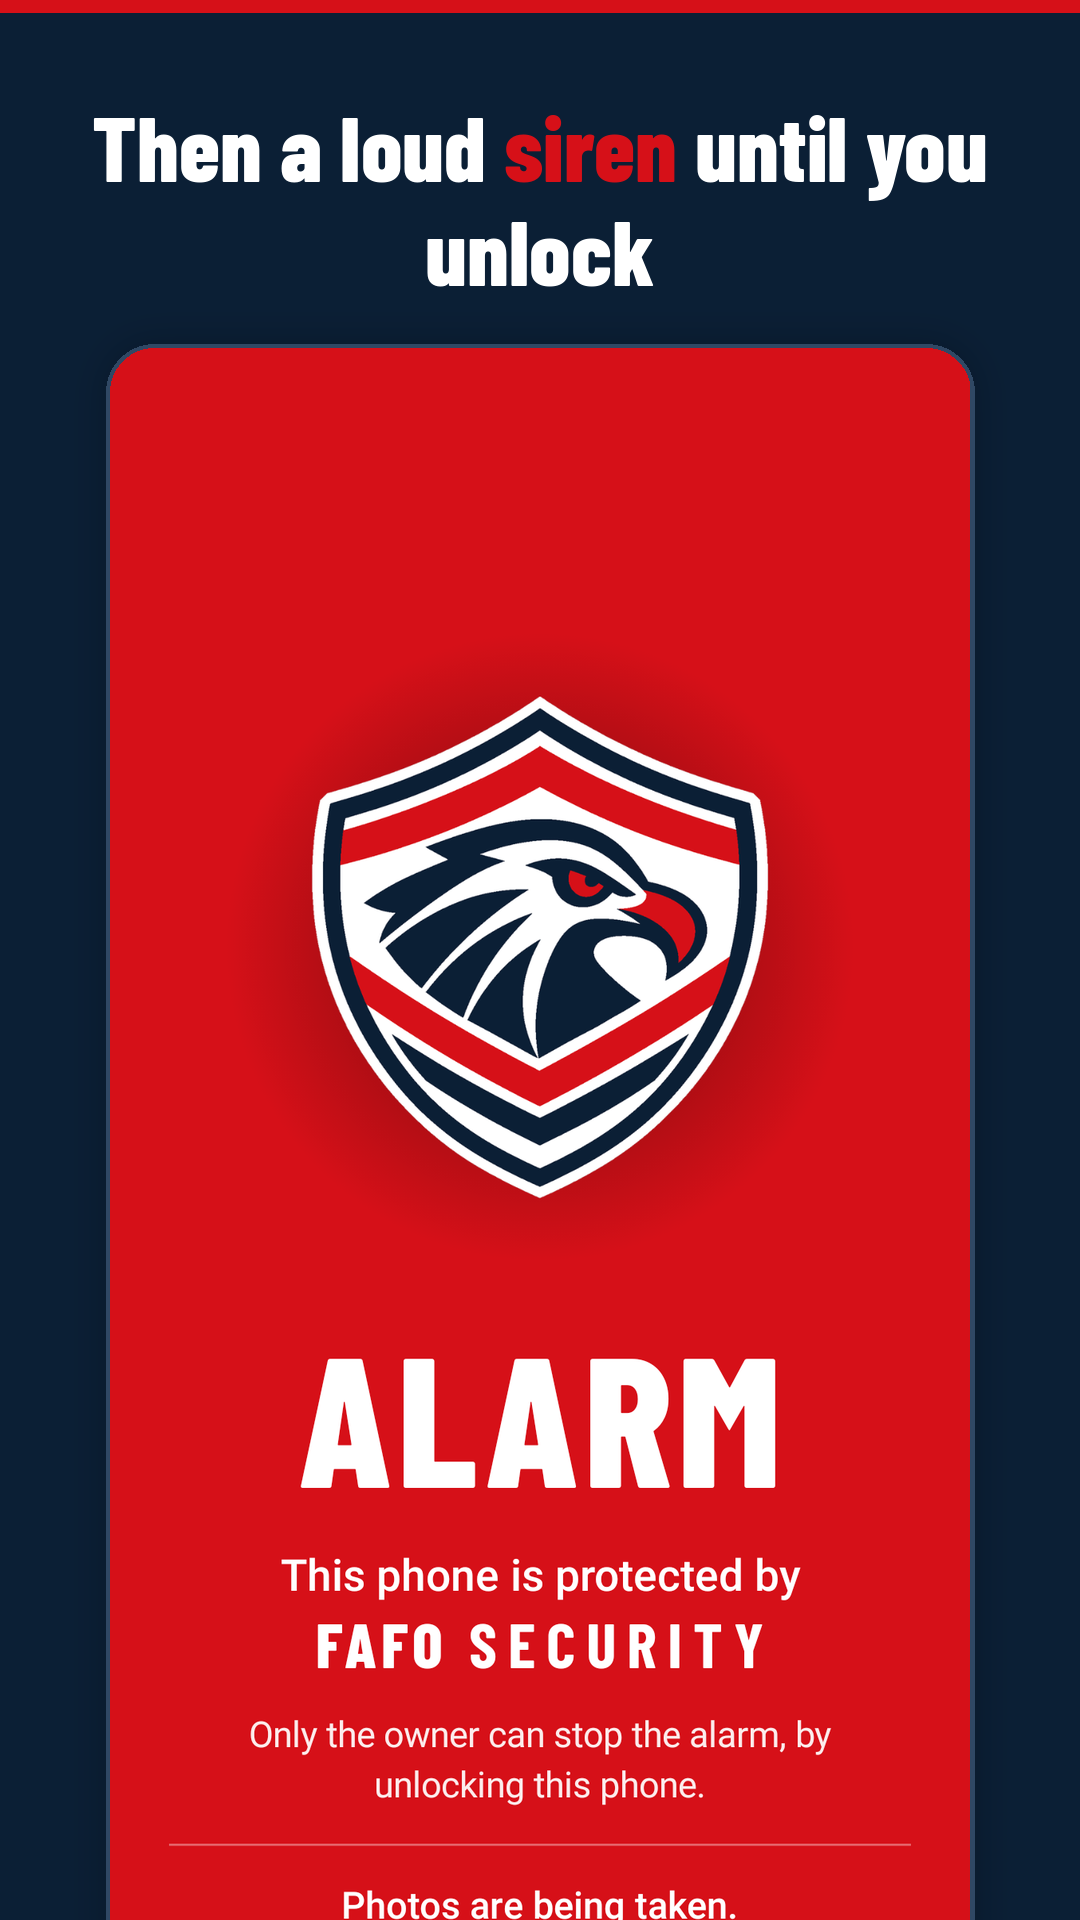
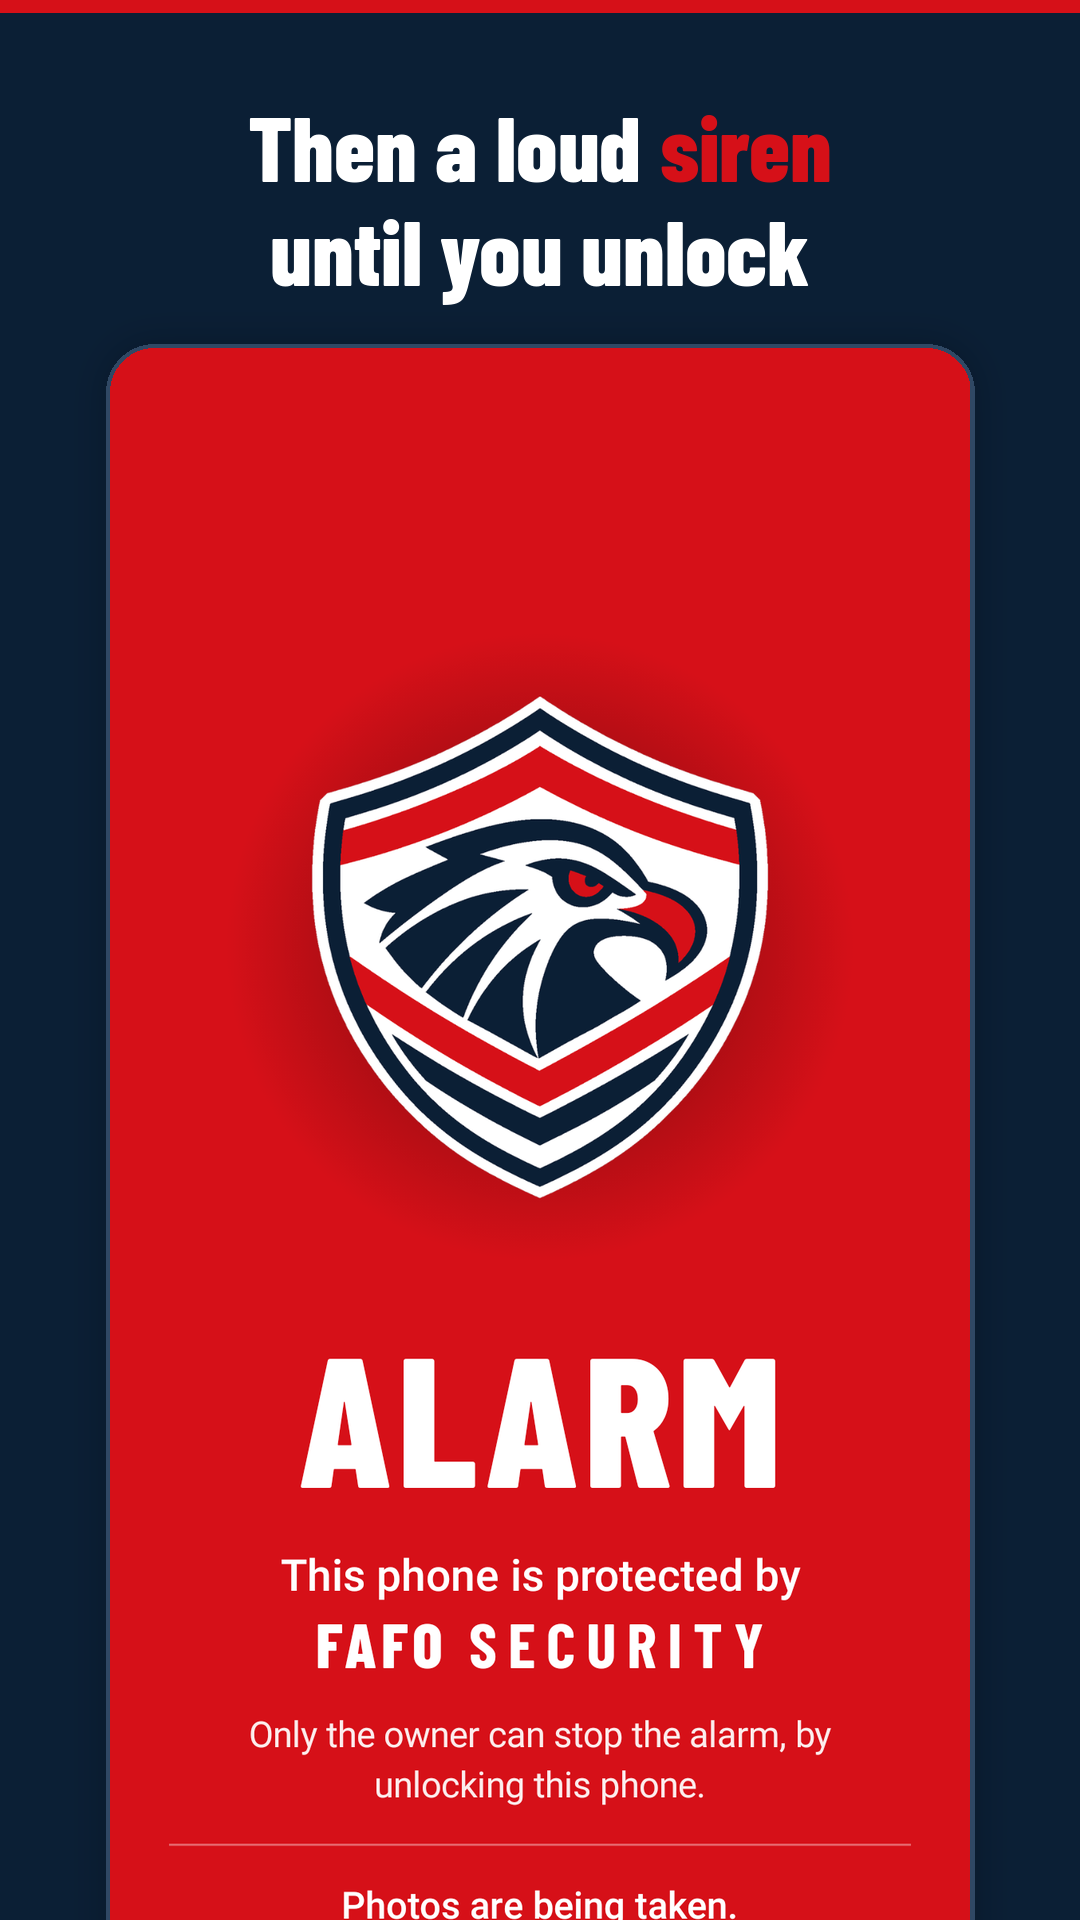
Store: policy and brand review fixes (FSI declaration, Data safety, wording, link contrast, balanced screenshot captions)
- Full-screen intent: do not claim the alarm-clock use case; camera FGS use case is still photos, not streaming
- Listing/site/policy: 'no sign-up, no server run by the developer' instead of 'no account, no server'
  (Gmail sign-in and SMTP use the user's own accounts and servers); alerts only to circles with Alerts on
- Data safety: shared-photos fallback note; email-address reason fixed
- Reviewer access: real labels (Setup screen, Settings > Pre-alarm)
- Site: dark-mode link colour raised to 6:1 contrast
- Screenshots: balanced two-line captions, exact accent match, word-boundary file names, stricter r3 detection
- Checklist: flag 'Bill's Pixel' fixture name and the shot 06 room-mode contradiction

Claude-Session: https://claude.ai/code/session_01EgKvd5JCKPdXZGNeyeqctz

Changed region(s): [[0.0917, 0.0625, 0.9167, 0.1562]]

diff --git a/store/site/index.html b/store/site/index.html
@@ -4,11 +4,11 @@
 <meta charset="utf-8">
 <meta name="viewport" content="width=device-width, initial-scale=1">
 <title>FAFO Security</title>
-<meta name="description" content="FAFO Security: an unplug alarm for your own Android phone. No ads, no account, no server.">
+<meta name="description" content="FAFO Security: an unplug alarm for your own Android phone. No ads, no tracking, no sign-up.">
 <link rel="icon" href="icon.png">
 <style>
-:root{--bg:#0B1F35;--fg:#eef2f6;--muted:#b0bece;--red:#D61018;--card:#10294a}
-@media (prefers-color-scheme:light){:root{--bg:#f5f7fa;--fg:#0B1F35;--muted:#4a5a6b;--card:#fff}}
+:root{--bg:#0B1F35;--fg:#eef2f6;--muted:#b0bece;--red:#FF6B70;--card:#10294a}
+@media (prefers-color-scheme:light){:root{--bg:#f5f7fa;--fg:#0B1F35;--muted:#4a5a6b;--red:#D61018;--card:#fff}}
 body{margin:0;background:var(--bg);color:var(--fg);font:17px/1.6 system-ui,-apple-system,"Segoe UI",Roboto,sans-serif}
 main{max-width:760px;margin:0 auto;padding:40px 16px 64px}
 .hero{display:flex;gap:20px;align-items:center;flex-wrap:wrap}.hero img{width:112px;height:112px}
@@ -25,7 +25,7 @@ a{color:var(--red)}ul{padding-left:1.2em}footer{color:var(--muted);font-size:.9r
 <li>Trigger photos kept on the phone, and optionally emailed to addresses you choose.</li>
 <li>Pair your own phones over Bluetooth; circles decide who gets alerts and who can reset or disarm.</li>
 <li>Intercom and push-to-talk between your own devices on the same Wi-Fi or Bluetooth.</li>
-<li>No ads, no tracking, no account, no server.</li>
+<li>No ads, no tracking, no sign-up, and no server run by the developer.</li>
 </ul></div>
 <p><a href="privacy-policy.html">Privacy policy</a> &middot; Google Play: {{PLAY_LINK}} &middot; Contact: {{CONTACT_EMAIL}}</p>
 <footer>FAFO Security is developed by {{DEVELOPER_NAME}}.</footer>

diff --git a/store/site/privacy-policy.html b/store/site/privacy-policy.html
@@ -7,7 +7,7 @@
 <link rel="icon" href="icon.png">
 <style>
 :root{--bg:#fff;--fg:#14202e;--muted:#4a5a6b;--navy:#0B1F35;--red:#D61018;--rule:#d9dee5}
-@media (prefers-color-scheme:dark){:root{--bg:#0B1F35;--fg:#eef2f6;--muted:#b0bece;--navy:#eef2f6;--rule:#24405f}}
+@media (prefers-color-scheme:dark){:root{--bg:#0B1F35;--fg:#eef2f6;--muted:#b0bece;--navy:#eef2f6;--red:#FF6B70;--rule:#24405f}}
 body{margin:0;background:var(--bg);color:var(--fg);font:16px/1.6 system-ui,-apple-system,"Segoe UI",Roboto,sans-serif}
 main{max-width:760px;margin:0 auto;padding:32px 16px 64px}
 h1{color:var(--navy);font-size:1.9rem;margin:.2em 0}h2{font-size:1.2rem;margin-top:2em;border-top:1px solid var(--rule);padding-top:1em}
@@ -20,7 +20,7 @@ table{border-collapse:collapse;width:100%;font-size:.95rem}td,th{border:1px soli
 <div class="meta">App: FAFO Security (Android, package ws.crandell.fafo). Developer: {{DEVELOPER_NAME}}. Effective {{EFFECTIVE_DATE}}.</div></div></header>
 
 <p>FAFO Security is an anti-theft alarm for your own Android phone. It has no ads, no analytics, no
-account and no server run by the developer. The developer does not receive any of your data.
+sign-up and no server run by the developer. The developer does not receive any of your data.
 This policy explains what the app accesses on your phone, what can leave your phone, and when.</p>
 
 <h2>What stays on your phone</h2>

diff --git a/store/graphics/make_store_shots.py b/store/graphics/make_store_shots.py
@@ -43,8 +43,10 @@ def find(files, patterns):
 
 
 def wrap(draw, text, fnt, width):
+    """Fewest lines that fit, then the break that evens out line widths (no one-word orphan line)."""
+    words = text.split()
     lines, cur = [], ""
-    for word in text.split():
+    for word in words:
         trial = (cur + " " + word).strip()
         if draw.textlength(trial, font=fnt) <= width or not cur:
             cur = trial
@@ -52,6 +54,15 @@ def wrap(draw, text, fnt, width):
             lines.append(cur)
             cur = word
     lines.append(cur)
+    if len(lines) == 2:
+        best = None
+        for k in range(1, len(words)):
+            a, b = " ".join(words[:k]), " ".join(words[k:])
+            wa, wb = draw.textlength(a, font=fnt), draw.textlength(b, font=fnt)
+            if max(wa, wb) <= width and (best is None or max(wa, wb) < best[0]):
+                best = (max(wa, wb), [a, b])
+        if best:
+            lines = best[1]
     return lines
 
 
@@ -65,10 +76,9 @@ def frame(src, caption, accent):
     for line in lines:
         x = (W - d.textlength(line, font=fnt)) / 2
         # one accent word in red, the rest white
-        for i, word in enumerate(line.split()):
-            col = RED if accent and word.strip(".,?!").lower() == accent.split()[0].lower() else WHITE
-            if accent and " " not in accent and accent.lower() in word.lower():
-                col = RED
+        for word in line.split():
+            # exact word match only, so accent "Arm" never colours "disarm"
+            col = RED if accent and word.strip(".,?!").lower() == accent.lower() else WHITE
             d.text((x, y), word, font=fnt, fill=col)
             x += d.textlength(word + " ", font=fnt)
         y += 104
@@ -100,7 +110,7 @@ def main():
     out.mkdir(parents=True, exist_ok=True)
     for old in out.glob("*.png"):
         old.unlink()
-    is_r3 = label == "round 3" or "r3" in str(src_dir)
+    is_r3 = label == "round 3" or src_dir.resolve() == R3.resolve() or "fafo-r3" in src_dir.parts
     picked = []
     for i, s in enumerate(cfg["shots"]):
         if s.get("requires_r3") and not is_r3:
@@ -117,7 +127,9 @@ def main():
     used, n = [], 0
     for _, s, hit in picked:
         n += 1
-        slug = "".join(c if c.isalnum() else "-" for c in s["caption"].lower()).strip("-")[:40]
+        slug = "-".join(filter(None, "".join(c if c.isalnum() else " " for c in s["caption"].lower()).split()))
+        while len(slug) > 40 and "-" in slug:  # cut at a word boundary, never mid-word
+            slug = slug.rsplit("-", 1)[0]
         dest = out / f"{n:02d}-{slug}.png"
         frame(src_dir / hit, s["caption"], s.get("accent", "")).save(dest, optimize=True)
         used.append(f"{dest.name}\t<- {hit}")

diff --git a/store/RELEASE-CHECKLIST.md b/store/RELEASE-CHECKLIST.md
@@ -75,8 +75,9 @@ packs. Sources were checked on 2026-10-28; recheck any form whose wording looks 
       permission and its declaration (PERMISSIONS-DECLARATIONS.md, "Round 3 watch-outs").
 - [ ] Round 3: confirm SMTP refuses plaintext (TLS or STARTTLS only), or the Data safety "encrypted in
       transit" answer must be No.
-- [ ] Developer verification: Play Console requires Play apps to be registered for Android developer
-      verification (Play policy deadline 2026-09-30). Check Play Console for the prompt when creating the app.
+- [ ] Developer verification: Android developer verification is rolling out for Play apps; check Play
+      Console for a verification prompt when creating the app and complete it if shown (dates vary by
+      region; not verified here).
       Same package `ws.crandell.fafo` is used by the oss/F-Droid APK; F-Droid signs with its own key.
       https://support.google.com/googleplay/android-developer/answer/12253906
 - [ ] Target API: new apps must target API 36 from 2026-08-31 (app targets 36).
@@ -94,7 +95,7 @@ metadata policy: https://support.google.com/googleplay/android-developer/answer/
 |---|---|---|
 | App name | max 30 chars; no emoji, no ranking/price/"new" words | listing/en-US/title.txt (28) |
 | Short description | max 80 | listing/en-US/short-description.txt (76) |
-| Full description | max 4000 | listing/en-US/full-description.txt (round 3, 3591) or full-description-core.txt (core, 2934) |
+| Full description | max 4000 | listing/en-US/full-description.txt (round 3, 3673) or full-description-core.txt (core, 3016) |
 | App icon | 512x512, 32-bit PNG with alpha, max 1024 KB; Play applies the mask | graphics/icon-512.png (99 KB) |
 | Feature graphic | 1024x500, JPEG or 24-bit PNG, no alpha | graphics/feature-graphic-1024x500.png |
 | Phone screenshots | min 2 (across device types), max 8 per type; 320-3840 px per side; long side at most 2x short side; JPEG or 24-bit PNG. 4+ at 1080 px or more for recommendation eligibility | graphics/phone/ (8 at 1080x1920) |
@@ -109,7 +110,10 @@ metadata policy: https://support.google.com/googleplay/android-developer/answer/
 - [ ] Regenerate icon/feature graphic: `python3 store/tools/make_graphics.py`.
 - [ ] Listing fields: LISTING.md. Category: **Tools**. Tags: pick only what applies (e.g. Security, Alarm). Contact email required;
       website = the homepage below.
-- [ ] Screenshots contain sample names ("Bill's Pixel", "Kitchen phone"); fine, or rename in the test data.
+- [ ] Screenshots contain the sample device name "Bill's Pixel" (Google's Pixel trademark plus a real first
+      name). Rename it in the screenshot test data to a generic label (e.g. "Bill's phone" or "Living room")
+      before the round 3 shots are taken, then regenerate. Shot 06 also shows "Room mode off" next to
+      "Bill's Pixel listening", which reads as a contradiction; use a fixture where the two agree.
 
 ## 2. Privacy policy and homepage hosting
 Play requirements: public, non-geofenced URL, not a PDF, names app/developer, has a contact, matches
@@ -139,7 +143,7 @@ All answers: CONTENT-RATING.md, REVIEWER-ACCESS.md, DATA-SAFETY.md, PERMISSIONS-
 - [ ] Data safety: column A (core) or B (photo email). https://support.google.com/googleplay/android-developer/answer/10787469
 - [ ] Foreground service types: specialUse, camera, microphone, connectedDevice, each with description,
       impact, use case and video. https://support.google.com/googleplay/android-developer/answer/13392821
-- [ ] Full-screen intent declaration (alarm). Same page.
+- [ ] Full-screen intent declaration: security alarm, not an alarm clock; do not claim the alarm-clock use case (PERMISSIONS-DECLARATIONS.md). Same page.
 - [ ] Battery optimization exemption: justification ready ("Safety app" case); no Console form found.
       https://developer.android.com/training/monitoring-device-state/doze-standby#exemption-cases
 - [ ] News / Government / Financial / Health / COVID: No / none.

diff --git a/store/PERMISSIONS-DECLARATIONS.md b/store/PERMISSIONS-DECLARATIONS.md
@@ -25,10 +25,12 @@ each time (the persistent notification is the evidence that the user sees the se
   countdown > siren > unlock stops it. Then restart during an alarm and show the siren resuming.
 
 ## FGS `camera` (same ArmService)
-- Use case: **Background Camera Streaming** (closest listed). If the form allows text, add: "photos
-  only during an alarm".
-- Description: "When the alarm goes off, the service takes a photo with the front camera, then one every
-  5 to 30 seconds (user setting) until the owner unlocks. Photos are saved on the phone. The camera type is
+- Use case: pick the closest listed camera use case; nothing is streamed, so avoid a streaming option if
+  another fits, else choose Other and type: "Still photos only while the theft alarm sounds; nothing is
+  streamed or recorded as video."
+- Description: "When the alarm goes off, the service takes a photo with the camera the user chose (front by default), then one
+  every 5 to 30 seconds (user setting) until the owner unlocks. Photos are saved on the phone (and, in
+  builds with photo email, emailed only if the user turned that on). The camera type is
   added only when the user arms from the visible app or taps the alarm notification; it is never started
   from boot."
 - Impact: "No photos of the person who took the phone."
@@ -60,9 +62,14 @@ each time (the persistent notification is the evidence that the user sees the se
 - Known risk: idle hours on connectedDevice; fallback drops ReachableService (BLE scan alerts remain).
 
 ## USE_FULL_SCREEN_INTENT
-- Form question: is the core functionality calling or alarm (default-granted)? Answer honestly:
-  "**Yes, alarm**: a security alarm that must show its stop screen over the lock screen when it sounds."
-  Play may decide it is not an "alarm clock" alarm; the app already routes the user to grant "Full screen
+- Form question: is the core functionality calling or alarm (default-granted)? Play's "alarm" use case
+  means alarm clocks and timers set by the user. FAFO is a security alarm, not an alarm clock, so do not
+  pick the alarm-clock option to get the default grant: that is a misdeclaration risk. Pick the option
+  for other use (wording varies, e.g. "None of the above" / "Other") and describe it as: "Security alarm
+  on the user's own phone: when the armed phone is unplugged, the alarm screen with the stop control must
+  show over the lock screen. The user grants Full screen notifications in Setup; without it the app shows a
+  heads-up notification instead." If the form lists a security or safety alert use case, pick that.
+  Play may still decide FAFO does not qualify for the default grant; the app already routes the user to grant "Full screen
   notifications" in Setup and degrades to a heads-up notification if declined (required for apps
   without the default grant). Deadline history: declaration required since 2024-05-31; default grant
   limited to calling/alarm apps since 2025-01-22.

diff --git a/store/REVIEWER-ACCESS.md b/store/REVIEWER-ACCESS.md
@@ -14,12 +14,12 @@ FAFO Security has no account or login and talks to no server.
 
 Core alarm (one phone or an emulator, no special hardware):
 1. Set a screen lock (PIN) on the device. The app needs one to arm.
-2. Open the app and finish the Setup tab (notifications, camera, full-screen alerts, battery). Setup > Self-test plays a 1 s chirp and siren and takes a test photo without arming.
+2. Open the app and finish the Setup screen (notifications, camera, full-screen alerts, battery). Setup > Self-test plays a 1 s chirp and siren and takes a test photo without arming.
 3. Connect a charger (any USB cable). On an emulator: Extended controls > Battery > Charger connection: AC charger.
 4. Home > ARM, confirm with the PIN or fingerprint. An "Armed" notification appears.
 5. Unplug the charger (emulator: Charger connection: None, or adb emu power ac off). A 5 second countdown beeps, then the siren plays at alarm volume and the red alarm screen shows over the lock screen.
 6. Unlock the device to stop it. Trigger photos are listed under Home > Incidents (an emulator uses its virtual camera).
-7. Optional: Settings > countdown can be set to 0-60 s; motion bumps chirp (emulator: Virtual sensors > Accelerometer).
+7. Optional: Settings > Pre-alarm sets the countdown (0, 1, 5, 10, 30 or 60 s); motion bumps chirp (emulator: Virtual sensors > Accelerometer).
 
 Trusted devices and intercom (optional, two phones on the same Wi-Fi with the app installed):
 Devices > Add paired device, then tap Show this phone on one and Find the other phone on the other, hold them close, compare the six-digit code on both, confirm with the screen lock. Then Intercom > hold to talk. Trigger the alarm on one phone to see the alert on the other. These features use only the local network or Bluetooth, so they cannot be shown across the internet; two emulators on one computer usually cannot see each other.

diff --git a/store/DATA-SAFETY.md b/store/DATA-SAFETY.md
@@ -50,8 +50,8 @@ Data types to tick:
 
 | Data type | Collected | Shared | Ephemeral | Required/optional | Purposes |
 |---|---|---|---|---|---|
-| Photos and videos > **Photos** | Yes | **No** (user-directed send to addresses the user chose; user-initiated transfer exclusion) | No | **Optional** (photo email is off until the user turns it on) | App functionality |
-| Personal info > **Email address** | Yes (the sending account address and login go to the user's mail server; Gmail sign-in returns the account email) | No | No | Optional | App functionality |
+| Photos and videos > **Photos** | Yes | **No** (user-directed send to addresses the user chose; user-initiated transfer exclusion). The sends are automatic once set up, so if in doubt tick **Shared: Yes** (purpose App functionality): over-declaring is allowed, under-declaring is a violation | No | **Optional** (photo email is off until the user turns it on) | App functionality |
+| Personal info > **Email address** | Yes (the sending account address and login go to the user's mail server and appear in the From header of every photo email) | No | No | Optional | App functionality |
 
 Do NOT tick: Audio (intercom is E2E device-to-device and never stored), Location (none), Device or other
 IDs (none), App activity, App info and performance (no crash reporter; Play's own vitals are Google's),

diff --git a/store/LISTING.md b/store/LISTING.md
@@ -11,8 +11,8 @@ Upload the description that matches the AAB you submit. Never list a feature the
 |---|---|---|
 | App name | `FAFO Security: Charger Alarm` (listing/en-US/title.txt) | 28 / 30 |
 | Short description | `Unplug alarm, trigger photos and trusted devices for your own phone. No ads.` | 76 / 80 |
-| Full description, core build (round 2) | listing/en-US/full-description-core.txt | 2934 / 4000 |
-| Full description, round 3 build (photo email, flash, status light, Gmail note) | listing/en-US/full-description.txt | 3591 / 4000 |
+| Full description, core build (round 2) | listing/en-US/full-description-core.txt | 3016 / 4000 |
+| Full description, round 3 build (photo email, flash, status light, Gmail note) | listing/en-US/full-description.txt | 3673 / 4000 |
 | Release notes (first release) | listing/en-US/release-notes.txt | 125 / 500 |
 | App category | **Tools** (Application > Tools) | |
 | Tags | Up to 5 from the list the Console offers. Choose only ones that describe the app, e.g. the security or alarm tags if offered. Do not pick tags for features it lacks (no tracking, no locator). | 5 |

diff --git a/store/PRIVACY-POLICY.md b/store/PRIVACY-POLICY.md
@@ -22,7 +22,7 @@ Two sentences depend on the round 3 build and must be checked before publishing:
 **App:** FAFO Security (Android, package ws.crandell.fafo). **Developer:** {{DEVELOPER_NAME}}.
 **Effective:** {{EFFECTIVE_DATE}}.
 
-FAFO Security is an anti-theft alarm for your own Android phone. It has no ads, no analytics, no account
+FAFO Security is an anti-theft alarm for your own Android phone. It has no ads, no analytics, no sign-up
 and no server run by the developer. The developer does not receive any of your data. This policy explains
 what the app accesses on your phone, what can leave your phone, and when.
 
